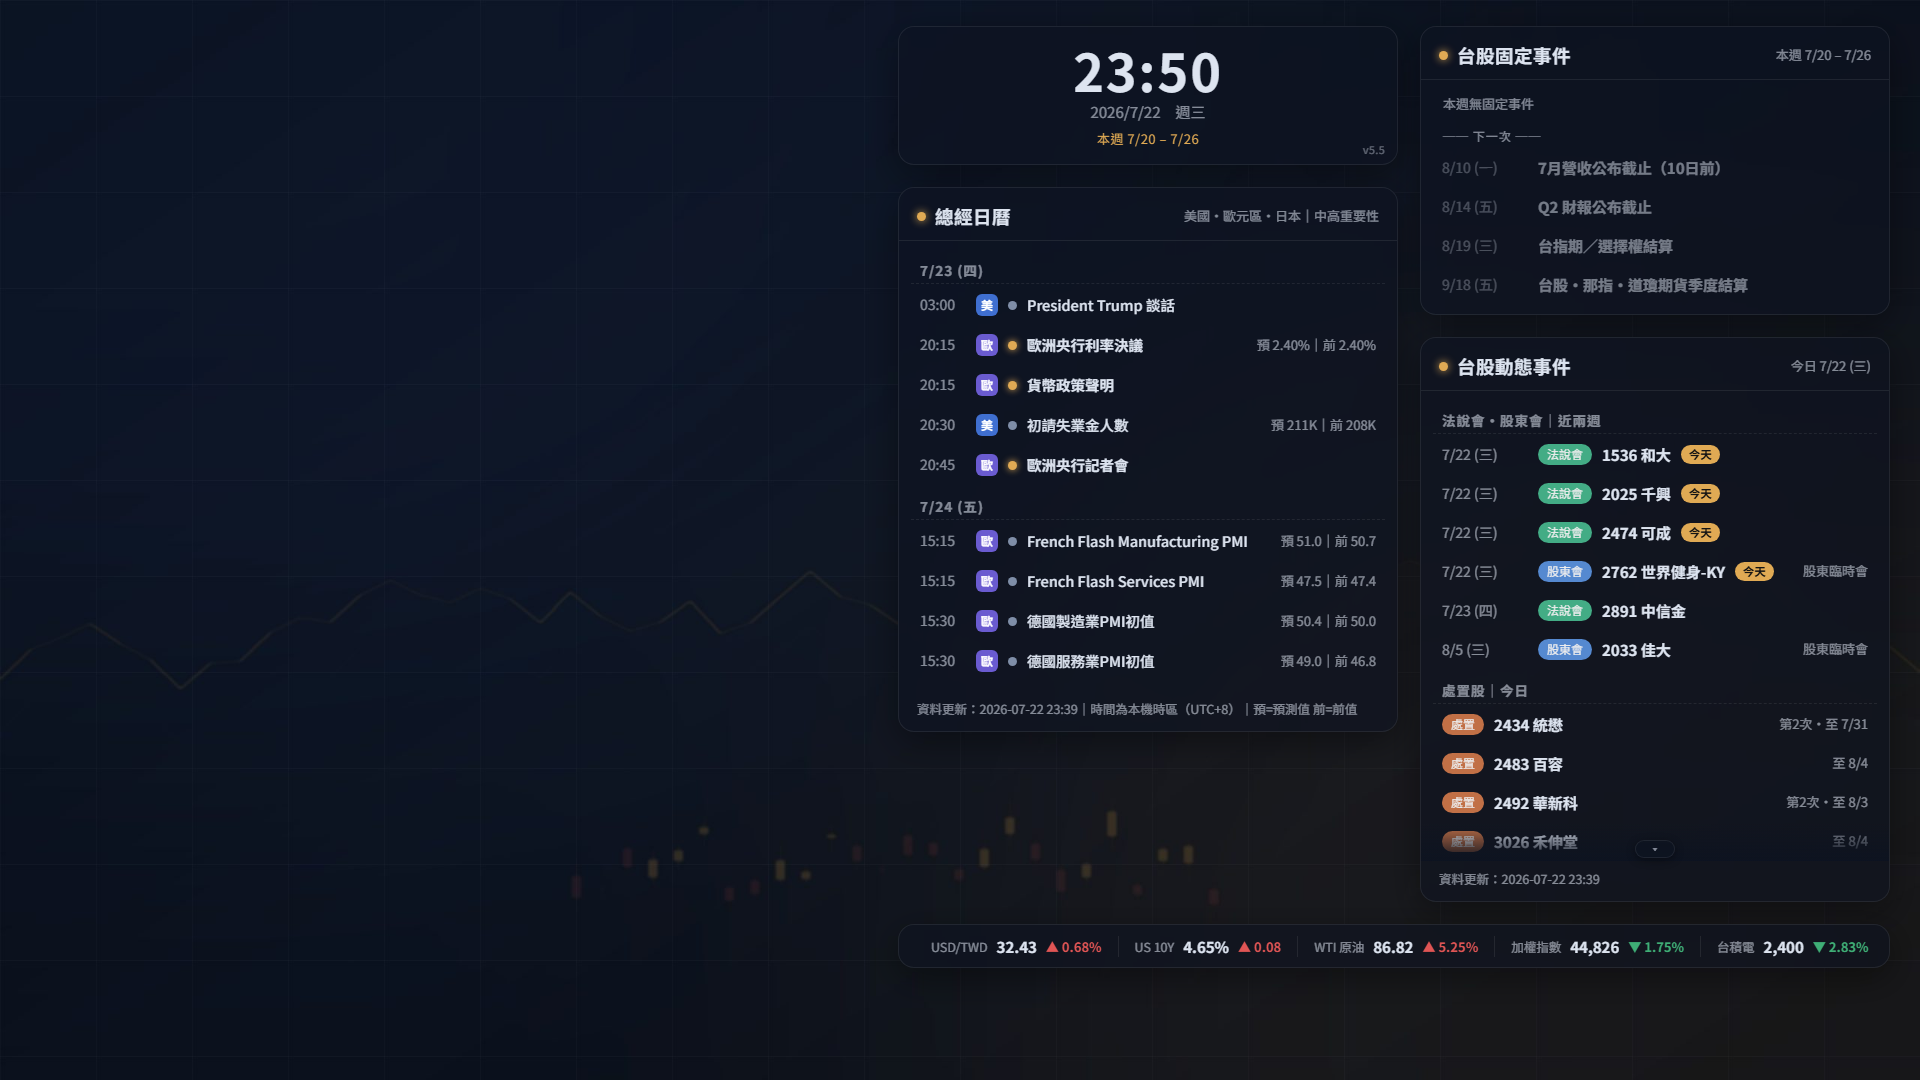
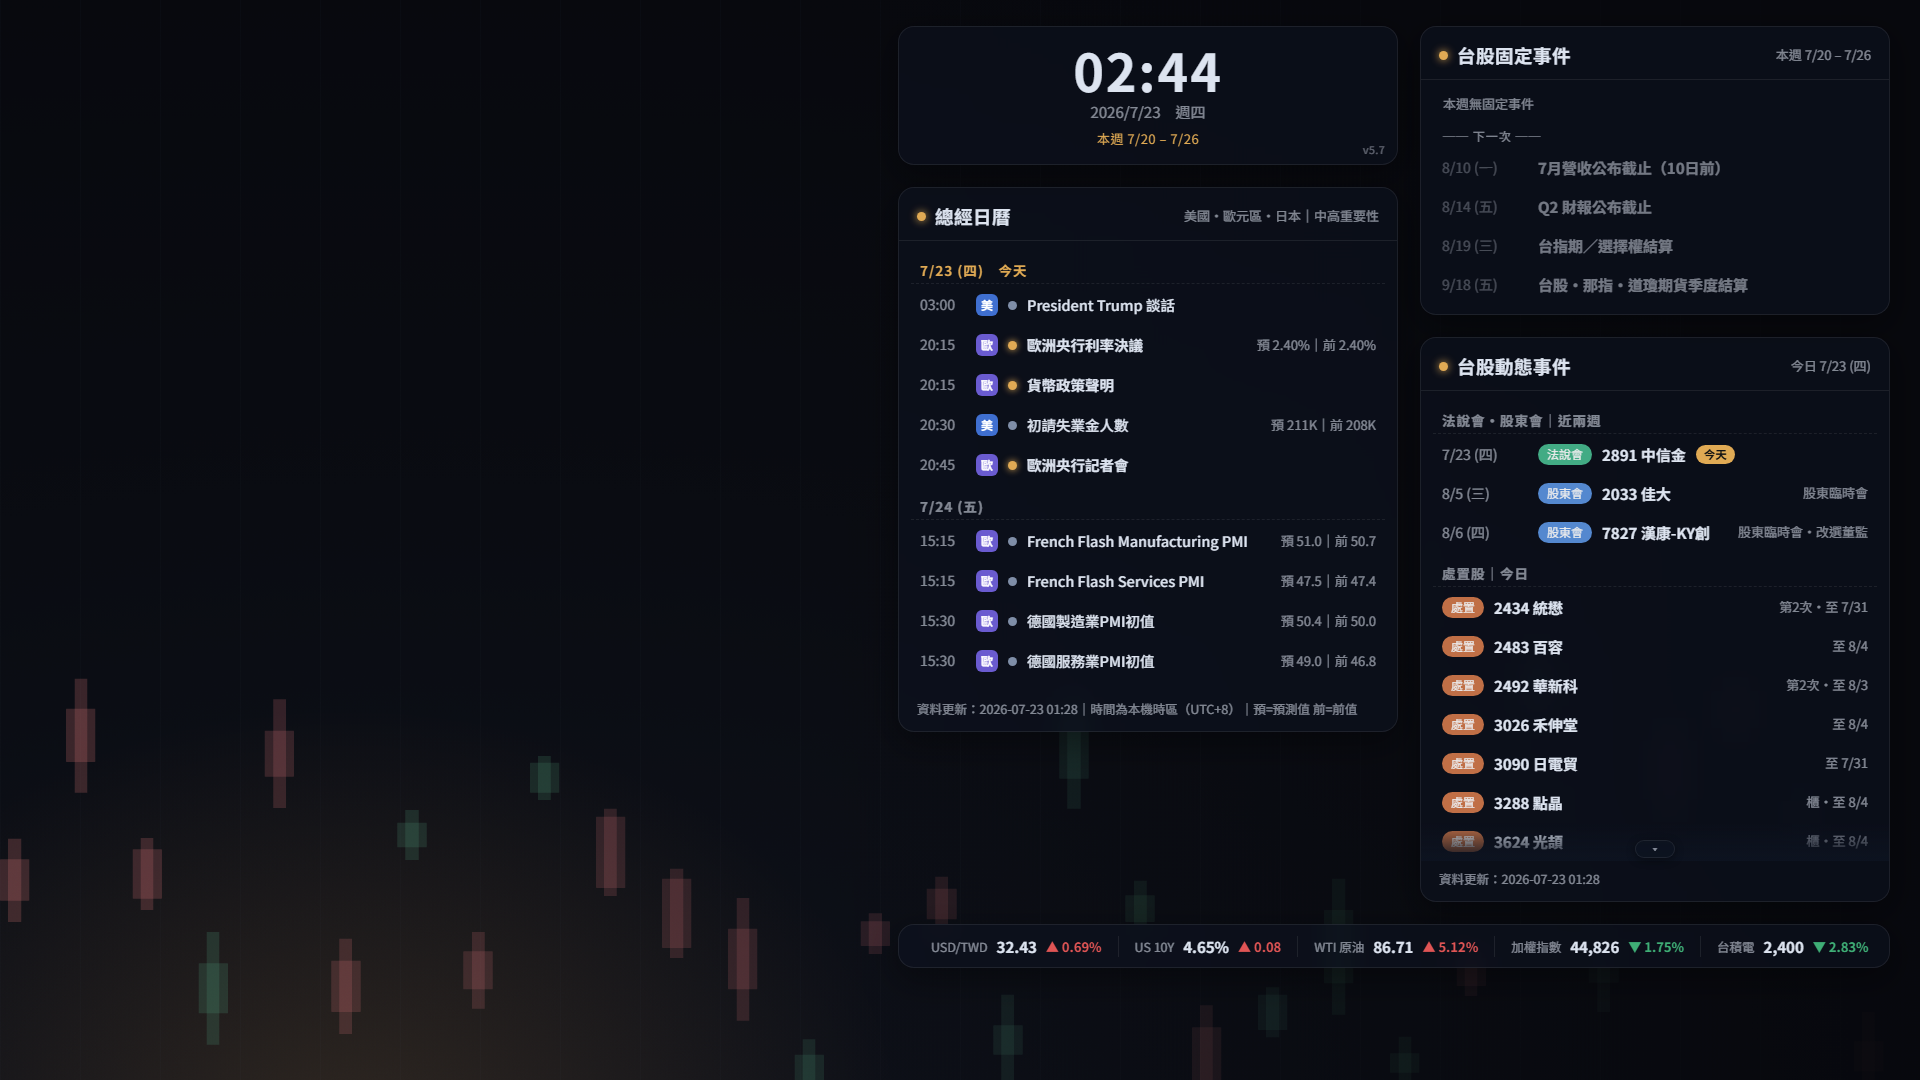
landing page：hero 換 v5.7 新桌布圖＋移到特色卡下方

diff --git a/docs/index.html b/docs/index.html
@@ -127,8 +127,6 @@
 
 <div class="wrap">
 
-  <div class="shot"><img src="hero.png" alt="財經日曆桌布實際畫面：時鐘、總經日曆、台股事件、底部行情條"></div>
-
   <section>
     <h2>特色</h2>
     <div class="cards">
@@ -150,6 +148,8 @@
       </div>
     </div>
   </section>
+
+  <div class="shot"><img src="hero.png" alt="財經日曆桌布實際畫面：時鐘、總經日曆、台股事件、底部行情條"></div>
 
   <section>
     <h2>一鍵安裝</h2>